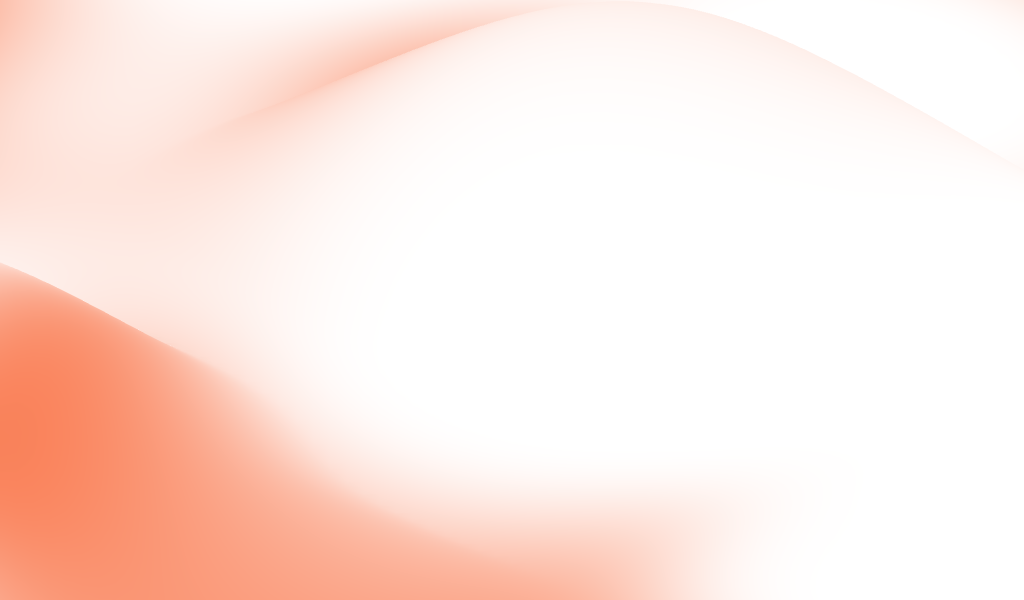
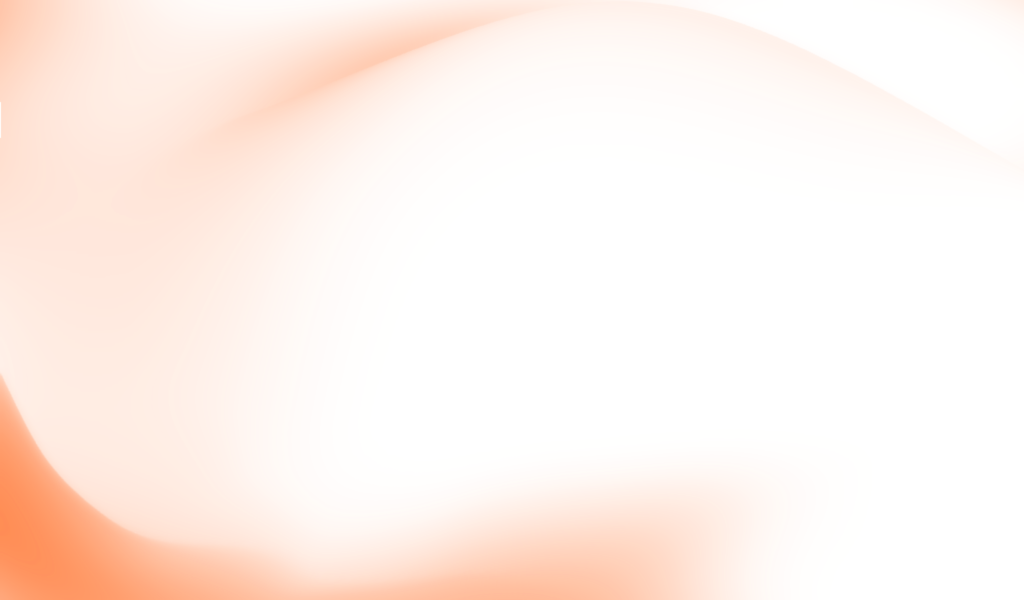
some design tweaks

Changed region(s): [[0.0, 0.45, 0.4688, 1.0]]

diff --git a/src/components/SplashSlider.js b/src/components/SplashSlider.js
@@ -6,7 +6,7 @@ import "./css/Splash.css";
 
 export default function SplashSlider(props) {
   const [slideIndex, setSlideIndex] = useState(1);
-
+  const [stickySplash, setstickySplash] = useState(1);
   // setTimeout(() => {
   //   nextSlide();
   // }, 25000);
@@ -32,6 +32,15 @@ export default function SplashSlider(props) {
   //   console.log(index);
   // };
 
+  const toggleStickySplash = () => {
+    console.log(window.scrollY);
+    if (window.scrollY >= 70) {
+      setstickySplash(false);
+    } else {
+      setstickySplash(true);
+    }
+  };
+
   return (
     <div className="container-splashSlider">
       {props.data.map((obj, index) => {
@@ -44,7 +53,7 @@ export default function SplashSlider(props) {
                 : "Splashslide not-active"
             }
           >
-            <div className="Splashslide-overlay-container">
+            <div className={obj.background ? "Splashslide-overlay-container Splashslide-background" : "Splashslide-overlay-container"}>
               <div className="splash-section">
                 <div
                   className="splash_row"
@@ -71,7 +80,7 @@ export default function SplashSlider(props) {
                   <div className="splash_col">
                     <div className="splash_img_wrapper">
                       <img
-                        src={process.env.PUBLIC_URL + obj.img}
+                        src={obj.img}
                         alt="DialogX"
                         className="splash-img"
                       />

diff --git a/src/components/css/SplashSlider.css b/src/components/css/SplashSlider.css
@@ -1,23 +1,32 @@
 .container-splashSlider {
-  margin-top: -80px;
   padding-top: 80px;
+  margin-top: -80px;
   height: 50vmax;
   position: relative;
   overflow: hidden;
-  background: url(../../../public/images/earthnet.jpg) center center no-repeat;
+  /* background: url(../../../public/images/earthnet.jpg) center center no-repeat;
   background-color: #e5e5e5;
   -webkit-background-size: cover;
   -moz-background-size: cover;
   background-size: cover;
-  -o-background-size: cover;
+  -o-background-size: cover; */
   /* background: url(../../../public/images/endless-constellation4.svg);
   background-repeat: repeat; */
   box-shadow: 0 10px 20px rgba(0, 0, 0, 0.2);
   /* box-shadow: 0 2px 4px 0 rgba(0, 0, 0, 0.2); */
 }
 
+.Splashslide-background{
+  background: url(../../../public/images/ginger2.jpg) center center no-repeat;
+  background-color: #e5e5e5;
+  -webkit-background-size: cover;
+  -moz-background-size: cover;
+  background-size: cover;
+  -o-background-size: cover;
+}
+
 .Splashslide {
-  padding-top: 20px;
+
   position: absolute;
   opacity: 0;
   transition: opacity ease-in-out 0.4s;

diff --git a/src/components/pages/HomePage/Home.js b/src/components/pages/HomePage/Home.js
@@ -2,7 +2,7 @@ import Hero from "../../Hero";
 
 import Header2 from "../../Header2";
 import Tiles from "../../Tiles";
-
+import PhotoSplash from "../../PhotoSplash";
 import Features from "../../Features";
 import Advantages from "../../Advantages";
 import { homeObjTwo, homeObjThree, homeObjFour } from "../../data/hero-data";
@@ -18,7 +18,10 @@ import Highlights from "../../Highlights";
 function Home() {
   return (
     <>
+    
       <ScrollToTop />
+
+      {/* <PhotoSplash/> */}
       <SplashSlider data={splash1} />
       <Highlights />
       <Advantages data={advantage} />

diff --git a/src/components/data/splash-data.js b/src/components/data/splash-data.js
@@ -1,5 +1,6 @@
 export const splash1 = [
   {
+    background: "yes",
     imgStart: "",
     headline: (
       <>
@@ -13,12 +14,13 @@ export const splash1 = [
     ),
     subtitle: (
       <>
+      
         Enabling Communication Service Providers to deploy{" "}
         <b>unified communications</b> globally with{" "}
         <b>zero capital investment.</b>
       </>
     ),
-    img: "images/splashpic6.png",
+    img: "images/none.png",
     buttonShow: "yes",
     buttonLabel: "Read More",
   },

diff --git a/src/components/css/App.css b/src/components/css/App.css
@@ -52,7 +52,7 @@ body {
 .page-enter-active {
   opacity: 1;
   transform: scale(1);
-  transition: opacity 300ms, transform 300ms;
+  transition: opacity 500ms, transform 500ms;
 }
 
 .page-exit {
@@ -63,5 +63,9 @@ body {
 .page-exit-active {
   opacity: 0;
   transform: scale(0.9);
-  transition: opacity 300ms, transform 300ms;
+  transition: opacity 500ms, transform 500ms;
+}
+
+.hide{
+  display:none;
 }

diff --git a/src/components/PhotoSplash.js b/src/components/PhotoSplash.js
@@ -1,0 +1,11 @@
+import React from 'react'
+import "./css/PhotoSplash.css";
+function PhotoSplash() {
+  return (
+    <>
+    <div className="photoSplash"><div className="photoSplash-img-wrapper"><img src={process.env.PUBLIC_URL + `/images/ginger2.jpg`} width="100%" height="100%"/></div></div>
+    </>
+    )
+}
+
+export default PhotoSplash

diff --git a/src/components/css/Advantages.css b/src/components/css/Advantages.css
@@ -1,5 +1,5 @@
 .adv-section-wrapper {
-  background: url(../../../public/images/mesh3.png) center center no-repeat;
+  background: url(../../../public/images/blob-scene.svg) center center no-repeat;
   background-color: #e5e5e5;
   -webkit-background-size: cover;
   -moz-background-size: cover;

diff --git a/src/components/css/PhotoSplash.css b/src/components/css/PhotoSplash.css
@@ -1,0 +1,20 @@
+
+.photoSplash{
+    margin-top: -80px;
+    
+  }
+
+  .photoSplash-img-wrapper{
+    box-shadow: inset 100px 100px 100px rgba(0, 0, 0, 0.5);
+  }
+
+  .photoSplash::after
+{
+ content: '';
+ display: block;
+ height: 100%;
+ position: absolute;
+ top: 0;
+ width: 100%;
+}
+

diff --git a/src/App.js b/src/App.js
@@ -28,7 +28,7 @@ function App() {
             {({ match }) => (
               <CSSTransition
                 in={match != null}
-                timeout={300}
+                timeout={500}
                 classNames="page"
                 unmountOnExit
               >

diff --git a/src/components/css/Navbar.css b/src/components/css/Navbar.css
@@ -6,6 +6,7 @@
 
 .custom_navbar {
   background: transparent;
+  background: #fff;
   height: 70px;
   display: flex;
   justify-content: center;
@@ -17,7 +18,7 @@
 }
 
 .custom_navbar.active {
-  background: #fff;
+  
   box-shadow: 0 2px 4px 0 rgba(0, 0, 0, 0.2);
 }
 
